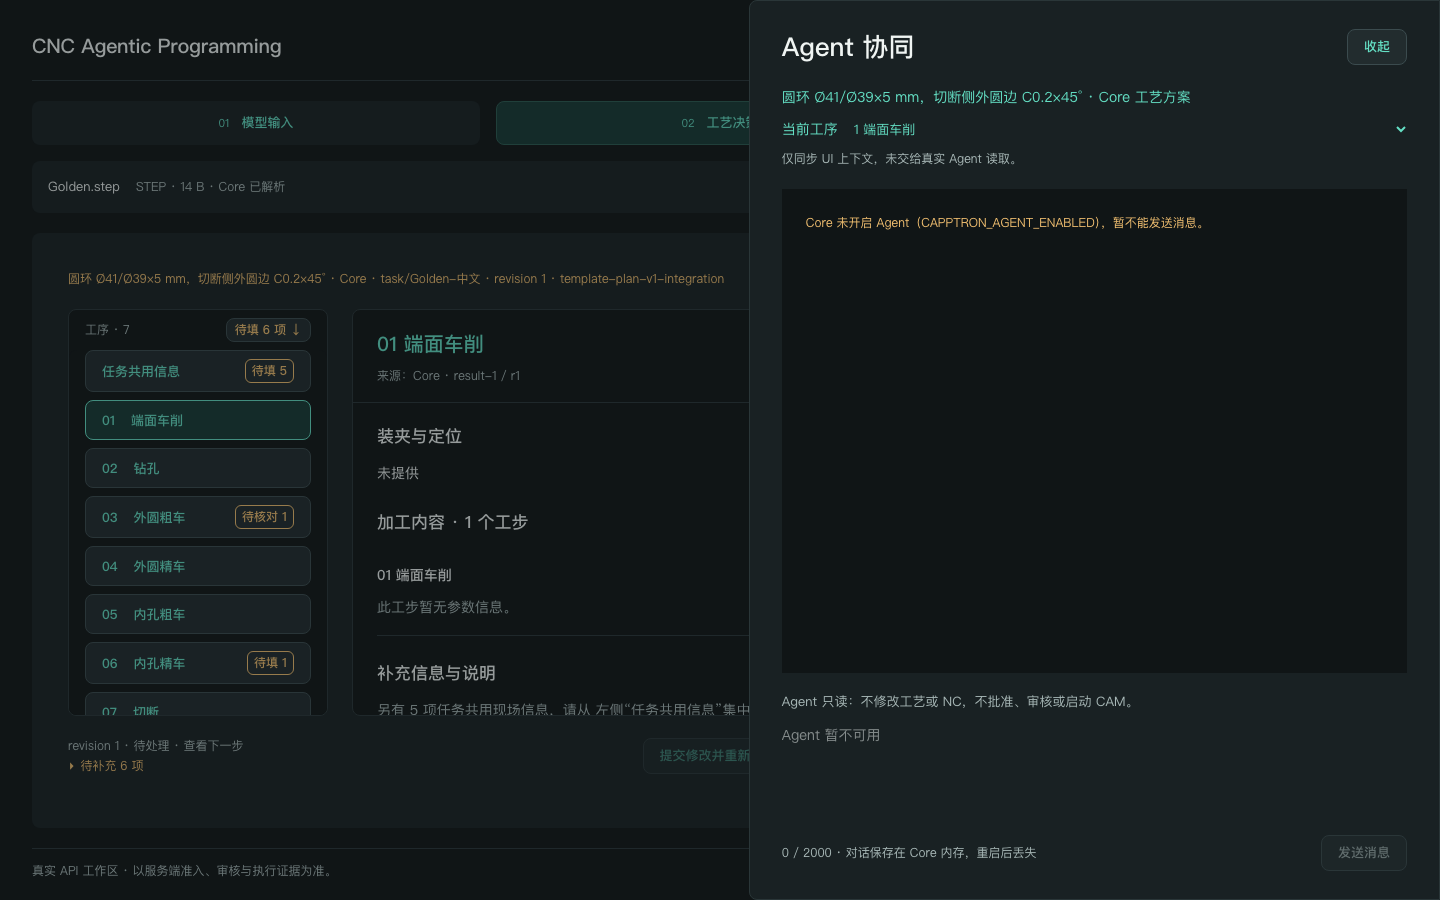
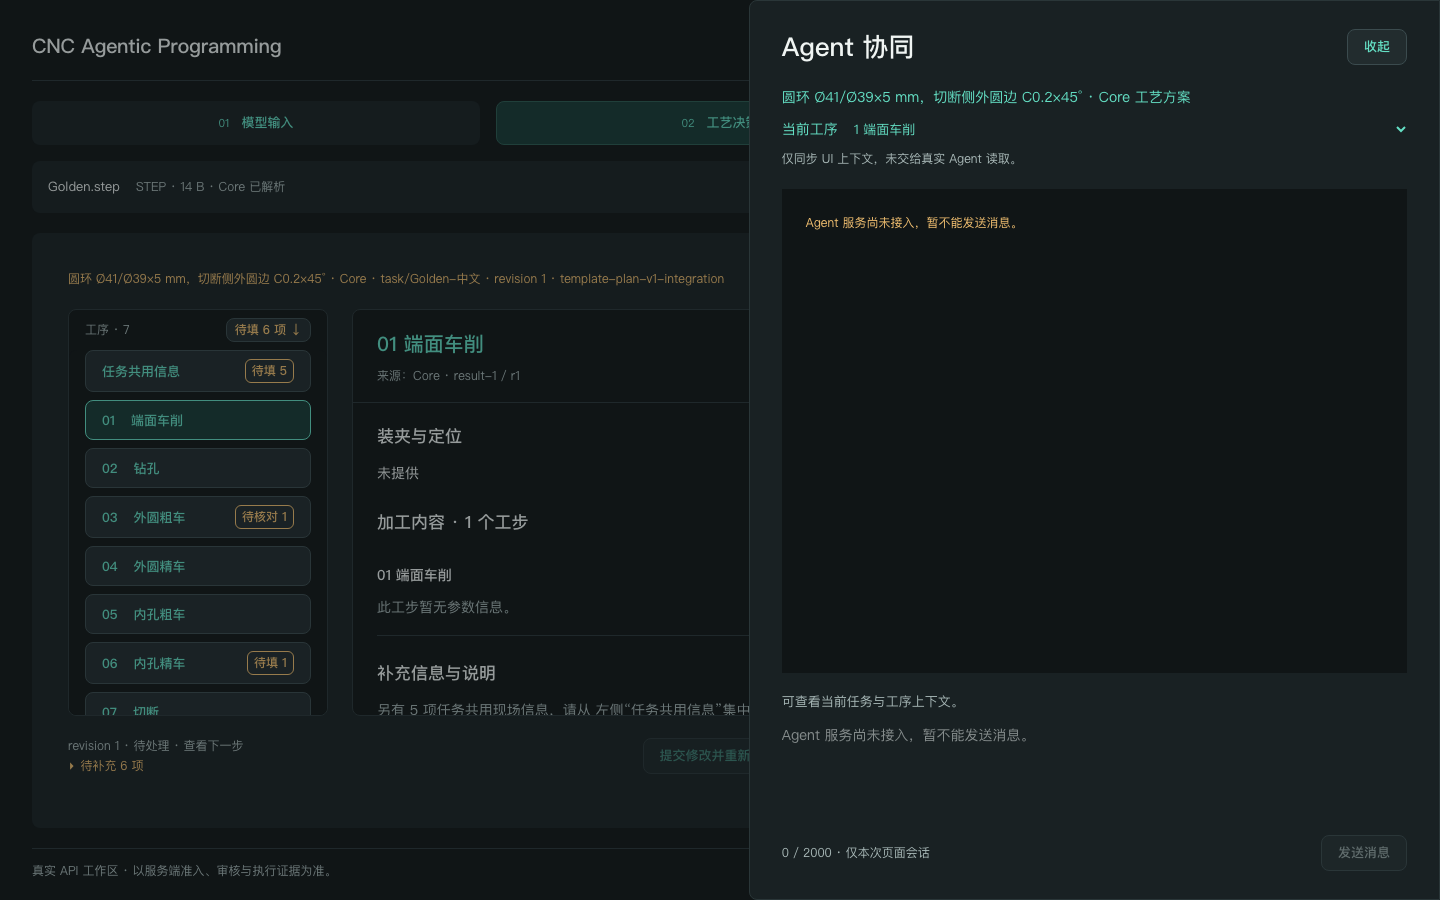
fix: Agent 不可用时保持基线抽屉，新样式只作用于真实对话

diff --git a/src/features/agent/AgentDrawer.tsx b/src/features/agent/AgentDrawer.tsx
@@ -18,7 +18,10 @@ export function AgentDrawer({
   unavailableReason,
   liveAgent,
 }: {
-  /** 真实联调模式下的 Agent；缺省时为 Demo 固定回复。 */
+  /**
+   * 真实联调模式下的 Agent。只有 Core 确认 Agent 可用时才切换为对话界面；
+   * 未开启、模拟、无任务或连接中时保持已确认基线的不可用抽屉（unavailableReason）。
+   */
   liveAgent?: LiveAgent
   unavailableReason?: string
   programContext?: string
@@ -37,11 +40,10 @@ export function AgentDrawer({
   const positions = useRef<Record<string, number>>({})
   const previousCount = useRef(0)
   const taskKey = plan?.id ?? 'unassigned'
-  const liveReady = liveAgent?.availability === 'available' && !liveAgent.pending
-  const blocked = liveAgent ? !liveReady : !!unavailableReason
-  const itemCount = liveAgent
-    ? liveAgent.turns.length + (liveAgent.pending ? 1 : 0)
-    : messages.length
+  const active = liveAgent?.availability === 'available' ? liveAgent : undefined
+  const liveReady = !!active && !active.pending
+  const blocked = active ? !liveReady : !!unavailableReason
+  const itemCount = active ? active.turns.length + (active.pending ? 1 : 0) : messages.length
   useEffect(() => {
     const element = dialog.current
     if (!element) return
@@ -99,7 +101,7 @@ export function AgentDrawer({
         <section className="agent-context" aria-label="Agent 当前上下文">
           <p>
             {plan
-              ? `${plan.partName} · ${plan.name}${liveAgent || unavailableReason ? '' : ' · Demo'}`
+              ? `${plan.partName} · ${plan.name}${active || unavailableReason ? '' : ' · Demo'}`
               : '未加载工艺方案'}
           </p>
           <div className="agent-operation-picker">
@@ -124,7 +126,7 @@ export function AgentDrawer({
           </div>
           {programContext && <p className="warning-text">{programContext}</p>}
           <p className="muted-text">
-            {liveAgent?.availability === 'available'
+            {active
               ? '当前任务与工序随消息发送；Agent 以服务端记录为准。'
               : '仅同步 UI 上下文，未交给真实 Agent 读取。'}
           </p>
@@ -140,17 +142,25 @@ export function AgentDrawer({
             positions.current[taskKey] = event.currentTarget.scrollTop
           }}
         >
-          {liveAgent ? (
-            <LiveAgentLog agent={liveAgent} plan={plan} />
+          {active ? (
+            <LiveAgentLog agent={active} plan={plan} />
           ) : (
             <>
               <p className="warning-text">{unavailableReason ?? '预设对话演示 · 非真实 Agent'}</p>
               {!unavailableReason && (
                 <p>可记录工艺、刀具或参数方面的问题。尚未连接真实 Agent，发送后仅展示固定说明。</p>
               )}
+              {liveAgent?.availability === 'error' && (
+                <>
+                  <p className="muted-text">Agent 连接失败：{liveAgent.error}</p>
+                  <button className="button" type="button" onClick={liveAgent.retry}>
+                    重新连接
+                  </button>
+                </>
+              )}
             </>
           )}
-          {!liveAgent &&
+          {!active &&
             messages.map((message) => (
               <article key={message.id} className={`agent-message message-${message.role}`}>
                 <p className="muted-text">
@@ -169,7 +179,7 @@ export function AgentDrawer({
           }}
         >
           <p className="muted-text">
-            {liveAgent
+            {active
               ? 'Agent 只读：不修改工艺或 NC，不批准、审核或启动 CAM。'
               : unavailableReason
                 ? '可查看当前任务与工序上下文。'
@@ -183,10 +193,8 @@ export function AgentDrawer({
             disabled={!plan || blocked}
             maxLength={2000}
             placeholder={
-              liveAgent
-                ? liveReady
-                  ? '输入问题，例如：粗车步距现在是多少，从哪里来？'
-                  : 'Agent 暂不可用'
+              active
+                ? '输入问题，例如：粗车步距现在是多少，从哪里来？'
                 : (unavailableReason ??
                   (plan ? '输入消息，体验 Demo 对话' : '请先显式加载演示方案'))
             }
@@ -195,14 +203,14 @@ export function AgentDrawer({
           <div className="agent-send">
             <span className="muted-text">
               {input.length} / 2000 ·{' '}
-              {liveAgent ? '对话保存在 Core 内存，重启后丢失' : '仅本次页面会话'}
+              {active ? '对话保存在 Core 内存，重启后丢失' : '仅本次页面会话'}
             </span>
             <button
               className="button primary-button"
               type="submit"
               disabled={!plan || !input.trim() || blocked}
             >
-              {liveAgent || unavailableReason ? '发送消息' : '发送演示消息'}
+              {active || unavailableReason ? '发送消息' : '发送演示消息'}
             </button>
           </div>
         </form>

diff --git a/src/features/agent/AgentDrawer.test.tsx b/src/features/agent/AgentDrawer.test.tsx
@@ -100,10 +100,34 @@ const agent = (overrides: Partial<LiveAgent> = {}): LiveAgent => ({
   ...overrides,
 })
 
-function drawer(liveAgent: LiveAgent, input = '') {
+const BASELINE_REASON = 'Agent 服务尚未接入，暂不能发送消息。'
+
+/** 渲染后返回对话框 HTML，用于与 main 基线逐字比较。 */
+function renderDrawer(props: { unavailableReason?: string; liveAgent?: LiveAgent }) {
+  const { container, unmount } = render(
+    <AgentDrawer
+      {...props}
+      open
+      onClose={() => {}}
+      plan={plan}
+      operationId="ring-op-2"
+      onOperation={() => {}}
+      messages={[]}
+      input="问题"
+      onInput={() => {}}
+      onSend={() => {}}
+    />,
+  )
+  const html = container.innerHTML
+  unmount()
+  return html
+}
+
+function drawer(liveAgent: LiveAgent, input = '', unavailableReason?: string) {
   const onSend = vi.fn()
   render(
     <AgentDrawer
+      unavailableReason={unavailableReason}
       liveAgent={liveAgent}
       open
       onClose={() => {}}
@@ -151,19 +175,25 @@ describe('AgentDrawer 真实模式', () => {
     expect(screen.getByLabelText('消息')).toBeDisabled()
   })
 
-  it.each([
-    ['disabled', 'Core 未开启 Agent（CAPPTRON_AGENT_ENABLED），暂不能发送消息。'],
-    ['simulation', '本地模拟模式不连接 Agent，暂不能发送消息。'],
-    ['waiting', '规划任务就绪后可向 Agent 提问。'],
-  ] as const)('%s 时说明原因且不可发送', (availability, text) => {
-    drawer(agent({ availability }), '问题')
-    expect(screen.getByText(text)).toBeInTheDocument()
-    expect(screen.getByRole('button', { name: '发送消息' })).toBeDisabled()
-  })
+  it.each(['checking', 'waiting', 'disabled', 'simulation'] as const)(
+    '%s 时与已确认基线的不可用抽屉完全一致',
+    (availability) => {
+      const baseline = renderDrawer({ unavailableReason: BASELINE_REASON })
+      const live = renderDrawer({
+        unavailableReason: BASELINE_REASON,
+        liveAgent: agent({ availability }),
+      })
+      expect(live).toBe(baseline)
+      expect(baseline).toContain(BASELINE_REASON)
+    },
+  )
 
-  it('连接失败可重新连接；轮次失败显示错误码', () => {
+  it('连接失败保留基线说明，另给出原因和重新连接', () => {
     const retry = vi.fn()
-    drawer(agent({ availability: 'error', error: 'Core HTTP 503', retry }))
+    drawer(agent({ availability: 'error', error: 'Core HTTP 503', retry }), '', BASELINE_REASON)
+    expect(screen.getByText(BASELINE_REASON)).toBeInTheDocument()
+    expect(screen.getByText('Agent 连接失败：Core HTTP 503')).toBeInTheDocument()
+    expect(screen.getByRole('button', { name: '发送消息' })).toBeDisabled()
     fireEvent.click(screen.getByRole('button', { name: '重新连接' }))
     expect(retry).toHaveBeenCalled()
   })

diff --git a/src/features/agent/LiveAgentLog.tsx b/src/features/agent/LiveAgentLog.tsx
@@ -1,5 +1,5 @@
 // 真实 Agent 的对话记录：问题、查询卡片、回答与经 Core 核对的依据。
-// 这里只展示服务端返回的事件，不补造回答或依据。
+// 只在 Core 确认 Agent 可用时使用；这里只展示服务端返回的事件，不补造回答或依据。
 import { summarizeTurn } from '../../api/core/agent'
 import type { AgentContextHint, ToolCard } from '../../api/core/agent'
 import type { ProcessPlan } from '../process-planning/processPlan'
@@ -20,33 +20,11 @@ function contextLabel(context: AgentContextHint, plan: ProcessPlan | null) {
   return context.operation_id ? `${page} · ${context.operation_id}` : `${page} · 任务级`
 }
 
-function availabilityText(agent: LiveAgent) {
-  switch (agent.availability) {
-    case 'waiting':
-      return '规划任务就绪后可向 Agent 提问。'
-    case 'checking':
-      return '正在连接 Core Agent…'
-    case 'disabled':
-      return 'Core 未开启 Agent（CAPPTRON_AGENT_ENABLED），暂不能发送消息。'
-    case 'simulation':
-      return '本地模拟模式不连接 Agent，暂不能发送消息。'
-    case 'error':
-      return `Agent 连接失败：${agent.error}`
-    default:
-      return '只读 Agent · 回答依据 Core 记录'
-  }
-}
-
 export function LiveAgentLog({ agent, plan }: { agent: LiveAgent; plan: ProcessPlan | null }) {
   return (
     <>
-      <p className="warning-text">{availabilityText(agent)}</p>
-      {agent.availability === 'error' && (
-        <button className="button" type="button" onClick={agent.retry}>
-          重新连接
-        </button>
-      )}
-      {agent.availability === 'available' && !agent.turns.length && !agent.pending && (
+      <p className="warning-text">只读 Agent · 回答依据 Core 记录</p>
+      {!agent.turns.length && !agent.pending && (
         <p>可询问参数、工序、修订或 NC 的来源与含义。Agent 只查询服务端记录，不修改工艺。</p>
       )}
       {agent.turns.map((turn) => {
@@ -125,7 +103,7 @@ export function LiveAgentLog({ agent, plan }: { agent: LiveAgent; plan: ProcessP
         </section>
       )}
       {agent.notice && <p className="warning-text">{agent.notice}</p>}
-      {agent.error && agent.availability === 'available' && (
+      {agent.error && (
         <p className="warning-text" role="alert">
           发送失败：{agent.error}
         </p>

diff --git a/e2e/agent-live.spec.ts b/e2e/agent-live.spec.ts
@@ -19,14 +19,13 @@ async function openAgent(page: Page) {
   return dialog
 }
 
-test('Core 未开启 Agent 时说明原因且不可发送', async ({ page }, info) => {
+test('Core 未开启 Agent 时保持基线不可用抽屉且不可发送', async ({ page }, info) => {
   const core = await coreFixture(page)
   await startPlanning(page)
   await openPlan(page)
   const dialog = await openAgent(page)
-  await expect(
-    dialog.getByText('Core 未开启 Agent（CAPPTRON_AGENT_ENABLED），暂不能发送消息。'),
-  ).toBeVisible()
+  // Core 未开启 Agent 时，抽屉保持已确认基线的不可用说明。
+  await expect(dialog.getByText('Agent 服务尚未接入，暂不能发送消息。')).toBeVisible()
   await expect(dialog.getByLabel('消息', { exact: true })).toBeDisabled()
   await expect(dialog.getByRole('button', { name: '发送消息' })).toBeDisabled()
   await expect(dialog).not.toContainText('Demo')

diff --git a/src/app/WorkflowWorkspace.tsx b/src/app/WorkflowWorkspace.tsx
@@ -108,6 +108,7 @@ export function WorkflowWorkspace({
       {visible && stage !== 'input' && <AgentBubble onOpen={() => setAgentOpen(true)} />}
       {
         <AgentDrawer
+          unavailableReason={live ? 'Agent 服务尚未接入，暂不能发送消息。' : undefined}
           liveAgent={live ? liveAgent : undefined}
           open={drawerOpen}
           onClose={() => setAgentOpen(false)}

diff --git a/src/styles/planning.css b/src/styles/planning.css
@@ -602,7 +602,7 @@
 .agent-turn > * + * {
   margin-top: 12px;
 }
-.agent-message p:not(.muted-text) {
+.message-agent p:not(.muted-text) {
   white-space: pre-wrap;
 }
 .agent-tools {

diff --git a/docs/api/Agent-Drawer-Live.md b/docs/api/Agent-Drawer-Live.md
@@ -5,16 +5,18 @@
 ## 行为
 
 - 只在真实 Core 联调模式下连接 Core Agent。原型/历史案例仍是 Demo 固定回复；`/?mode=simulation` 不连接 Agent，抽屉说明“本地模拟模式不连接 Agent”。
-- 打开抽屉且已有规划任务时，先以只读 GET 探测：对话不存在（8401）表示 Core 已开启 Agent，路由不存在（3002）表示未开启（`CAPPTRON_AGENT_ENABLED`）。未开启时说明原因并禁用输入。没有任务时提示“规划任务就绪后可向 Agent 提问”，不发请求。
+- 打开抽屉且已有规划任务时，先以只读 GET 探测：对话不存在（8401）表示 Core 已开启 Agent，路由不存在（3002）表示未开启（`CAPPTRON_AGENT_ENABLED`）。**只有 Core 确认 Agent 可用时，抽屉才切换为对话界面**；未开启、本地模拟、尚无任务或连接中时，抽屉与 main 基线的真实模式不可用抽屉逐字一致（“Agent 服务尚未接入，暂不能发送消息。”，输入禁用）。连接失败时在同一说明下另显示失败原因和“重新连接”。
 - 对话按任务建立，浏览器只在 `localStorage`（`capptron.agent.conversations.v1`）保存对话 ID。刷新后先读取该 ID 的对话；Core 确认对话不存在（8401，例如 Core 已重启）时，用新 ID 新建空对话并提示“之前的问答已丢失”，不会用旧 ID 静默重建空对话。发送时发现对话丢失同样新建并提示，不自动重发问题。问答内容只在 Core 进程内存。换任务时丢弃旧对话，迟到响应被忽略。
 - 每条消息附带页面上下文：`page`（工艺决策 `planning` / 程序审核 `review`）、`task_id`、当前修订、所选工序；程序审核页另带当前 NC 版本 `nc_ref`。上下文只是提示，Agent 以服务端记录为准。
 - 展示服务端返回的事件：问题与上下文、查询卡片（摘要、结果状态）、回答、经 Core 核对的依据（可展开，显示资源、指针与取值，以及未通过核对的条数）、失败轮次的公开错误码。不补造回答或依据。
 - 发送成功后清空输入；失败时保留原文并显示 Core 错误与 request ID。查询中禁止重复发送。
 - Agent 请求不进入命令日志，不触发任何规划、工艺卡或 CAM 请求。批准、审核、下载与启动 CAM 仍只能在页面原入口完成。
 
-## 布局
+## 布局与基线
 
-沿用 UI 基线的抽屉、上下文区、对话记录区和输入区，没有改变抽屉尺寸、页面布局或其他页面。对话记录内新增查询卡片与依据折叠区样式（`planning.css`），只在真实模式出现。
+- Demo/原型模式、模拟模式和 Agent 不可用时的抽屉，渲染结果与 main `0a1a305` 完全一致：在相同输入下逐字比较两版 `AgentDrawer` 的 HTML（Demo 空记录、Demo 有消息、无方案、真实模式不可用、程序审核页不可用，以及 checking/waiting/disabled/simulation 四种状态），全部相同；`AgentDrawer.test.tsx` 保留该比较。
+- 只有 Agent 可用时才出现新的对话记录内容：查询卡片、回答与依据折叠区。新增样式只作用于真实对话的类名（`.agent-turn`、`.message-agent`、`.agent-tools`、`.agent-citations`），不改动抽屉尺寸、既有类名或其他页面。
+- 在 main 与本分支分别运行全部 e2e，逐像素比较模拟与真实模式既有截图证据（72 张）：差异与 main 自身两次运行之间的差异属于同类（焦点与动画时序），无布局变化；既有证据文件未提交更新。
 
 ## 验证
 
